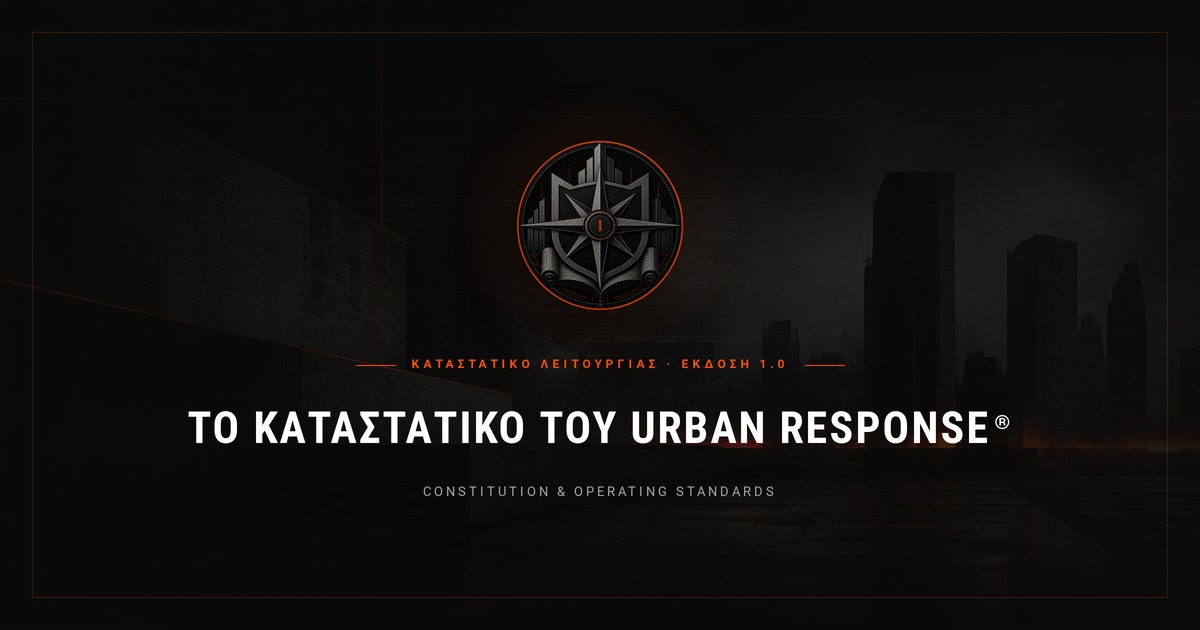
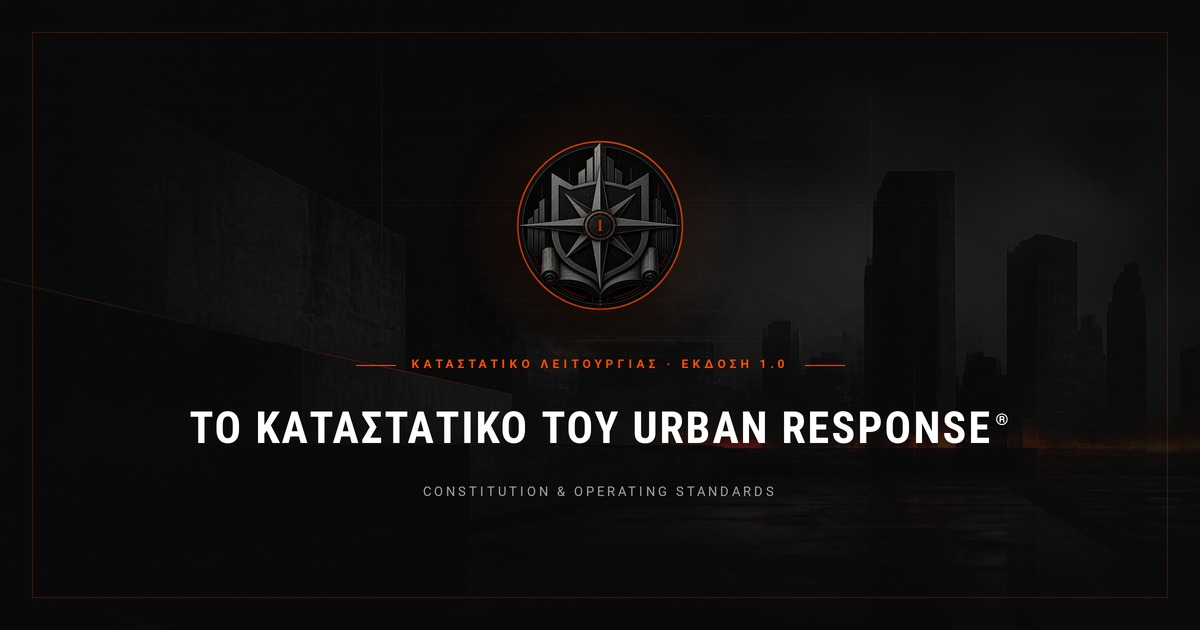
Changes

Changed region(s): [[0.1542, 0.6333, 0.8633, 0.7238]]

diff --git a/.lovable/plan.md b/.lovable/plan.md
@@ -1,26 +1,10 @@
-## Στόχος
-Featured/OG image (1200×630) που αναπαράγει το hero του `/constitution` — background, emblem, orange divider + "Καταστατικό Λειτουργίας · Έκδοση 1.0", τίτλος, υπότιτλος — με σωστή αναφορά **Urban Response®** (με το ® σε εκθέτη) όπου εμφανίζεται το brand.
+## Πλάνο (Επιλογή B — 1200×630 FB standard)
 
-## Πλάνο
-
-1. **Brand mark με ®**
-   - Στο hero markup δεν εμφανίζεται σήμερα το κείμενο "Urban Response" — το brand φαίνεται μόνο μέσω του emblem/logo. Θα προσθέσω μια μικρή γραμμή brand πάνω από το divider: `URBAN RESPONSE®` (το ® ως `<sup>` σε εκθέτη, μικρότερο μέγεθος, ίδιο orange accent) **μόνο στο render της OG image**, χωρίς να πειράξω το live hero της σελίδας.
-   - Εναλλακτικά, αν προτιμάς, να μπει και στο live hero.
-
-2. **Render 1200×630 μέσω Playwright**
-   - Άνοιγμα `/constitution` σε viewport 1200×630.
-   - DOM injection της γραμμής `Urban Response®` για το screenshot.
-   - Element screenshot του hero `<section>` clipped στα 1200×630.
-
-3. **Αποθήκευση**
-   - `src/assets/constitution-og.jpg` (για χρήση ως og:image)
-   - `/mnt/documents/constitution-og.jpg` (για download)
-
-4. **Meta tags (προαιρετικό)**
-   Το site είναι SPA, οπότε ο Facebook crawler δεν εκτελεί JS — τα OG tags πρέπει να μπουν στο `index.html`.
-   - **A)** Auto: προσθήκη `og:image` (+ og:title/description/type, twitter:card) στο `index.html` που δείχνει στη νέα εικόνα.
-   - **B)** Μόνο η εικόνα — τη βάζεις χειροκίνητα ως featured image στο FB post.
-
-## Ερωτήσεις
-1. Το `Urban Response®` να μπει **μόνο στην OG image** ή και στο live hero της σελίδας;
-2. Προτιμάς **A** (auto OG tags στο site) ή **B** (μόνο η εικόνα);
+1. **Element-screenshot του hero section** στο φυσικό του ύψος (χωρίς να το στριμώξω) → capture 1200×~780.
+2. **Center-crop** σε 1200×630 ώστε το πορτοκαλί `inset:32px` frame να παραμείνει οπτικά κεντραρισμένο (ίδιο περιθώριο πάνω/κάτω/αριστερά/δεξιά) γύρω από το content.
+3. **® fix**: αλλαγή σε `font-size: 0.4em; vertical-align: super; top: -1em` ώστε το R να κάθεται πάνω από το cap-height του E, όχι στη μέση του.
+4. **Έξοδοι**:
+   - `/mnt/documents/constitution-og.jpg`
+   - `src/assets/constitution-og.jpg`
+   - `public/og-constitution.jpg`
+5. **QA**: μέτρηση pixel των margins (top/bottom/left/right του frame) για επιβεβαίωση ισότητας πριν το παραδώσω.
